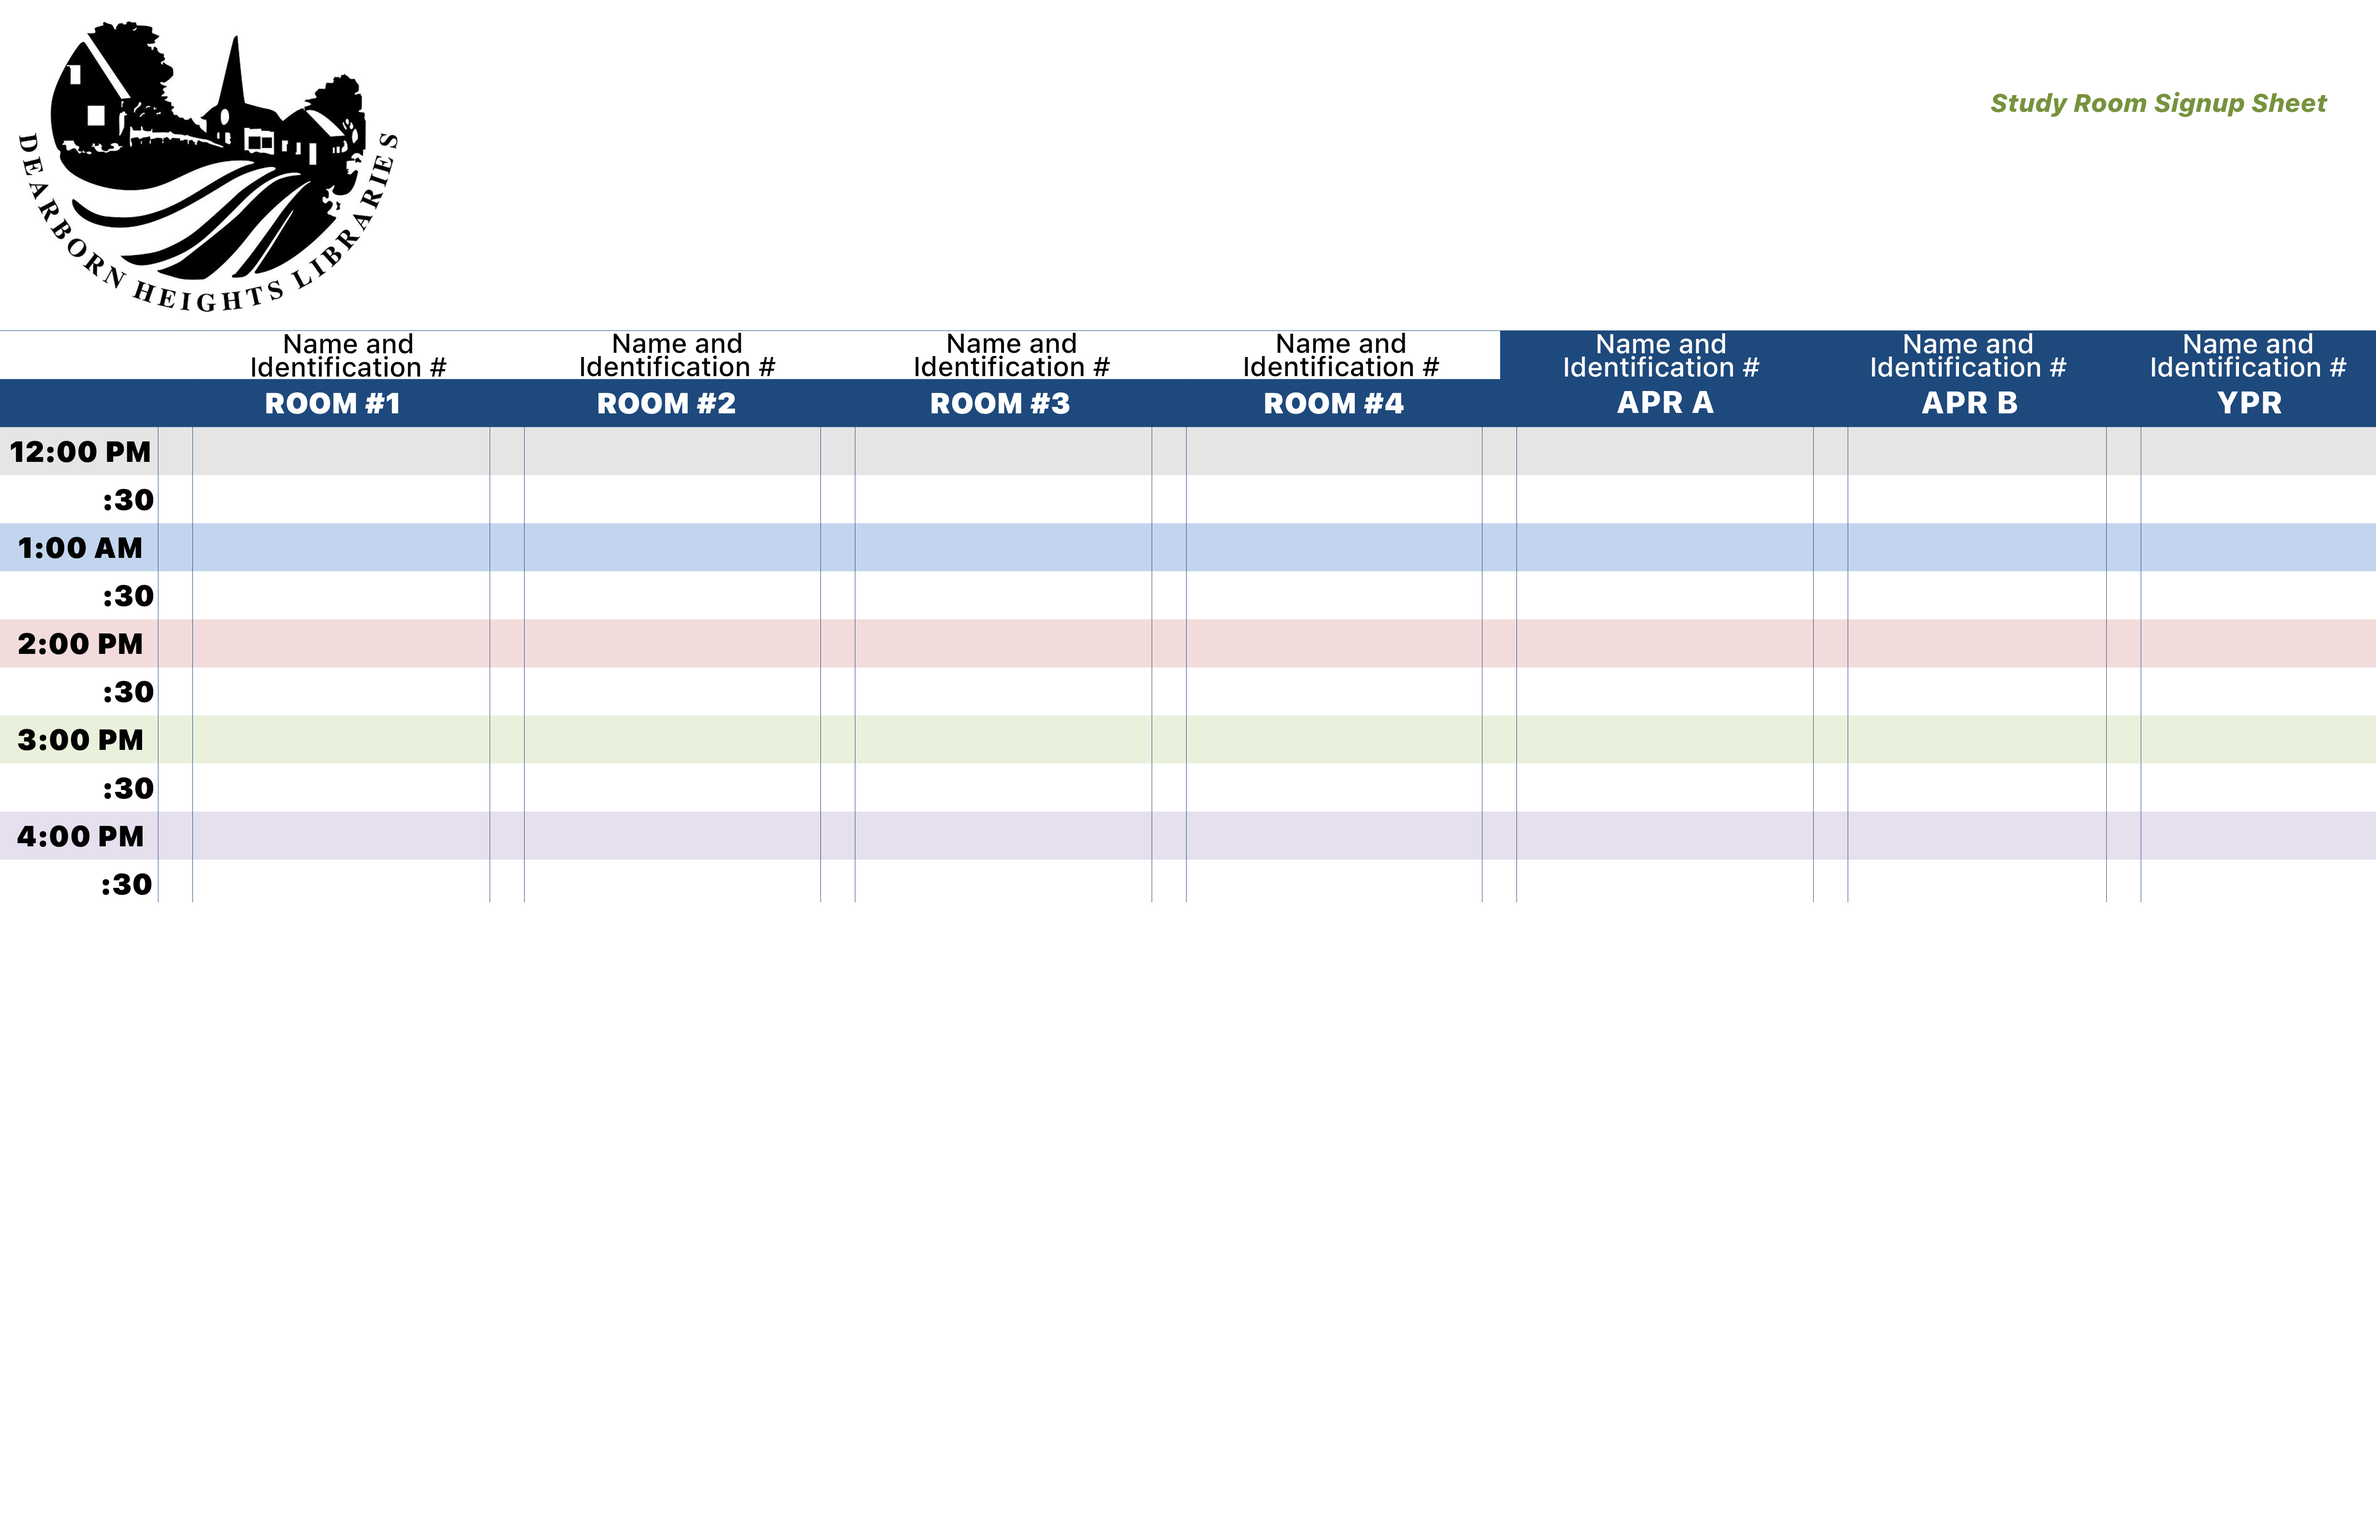
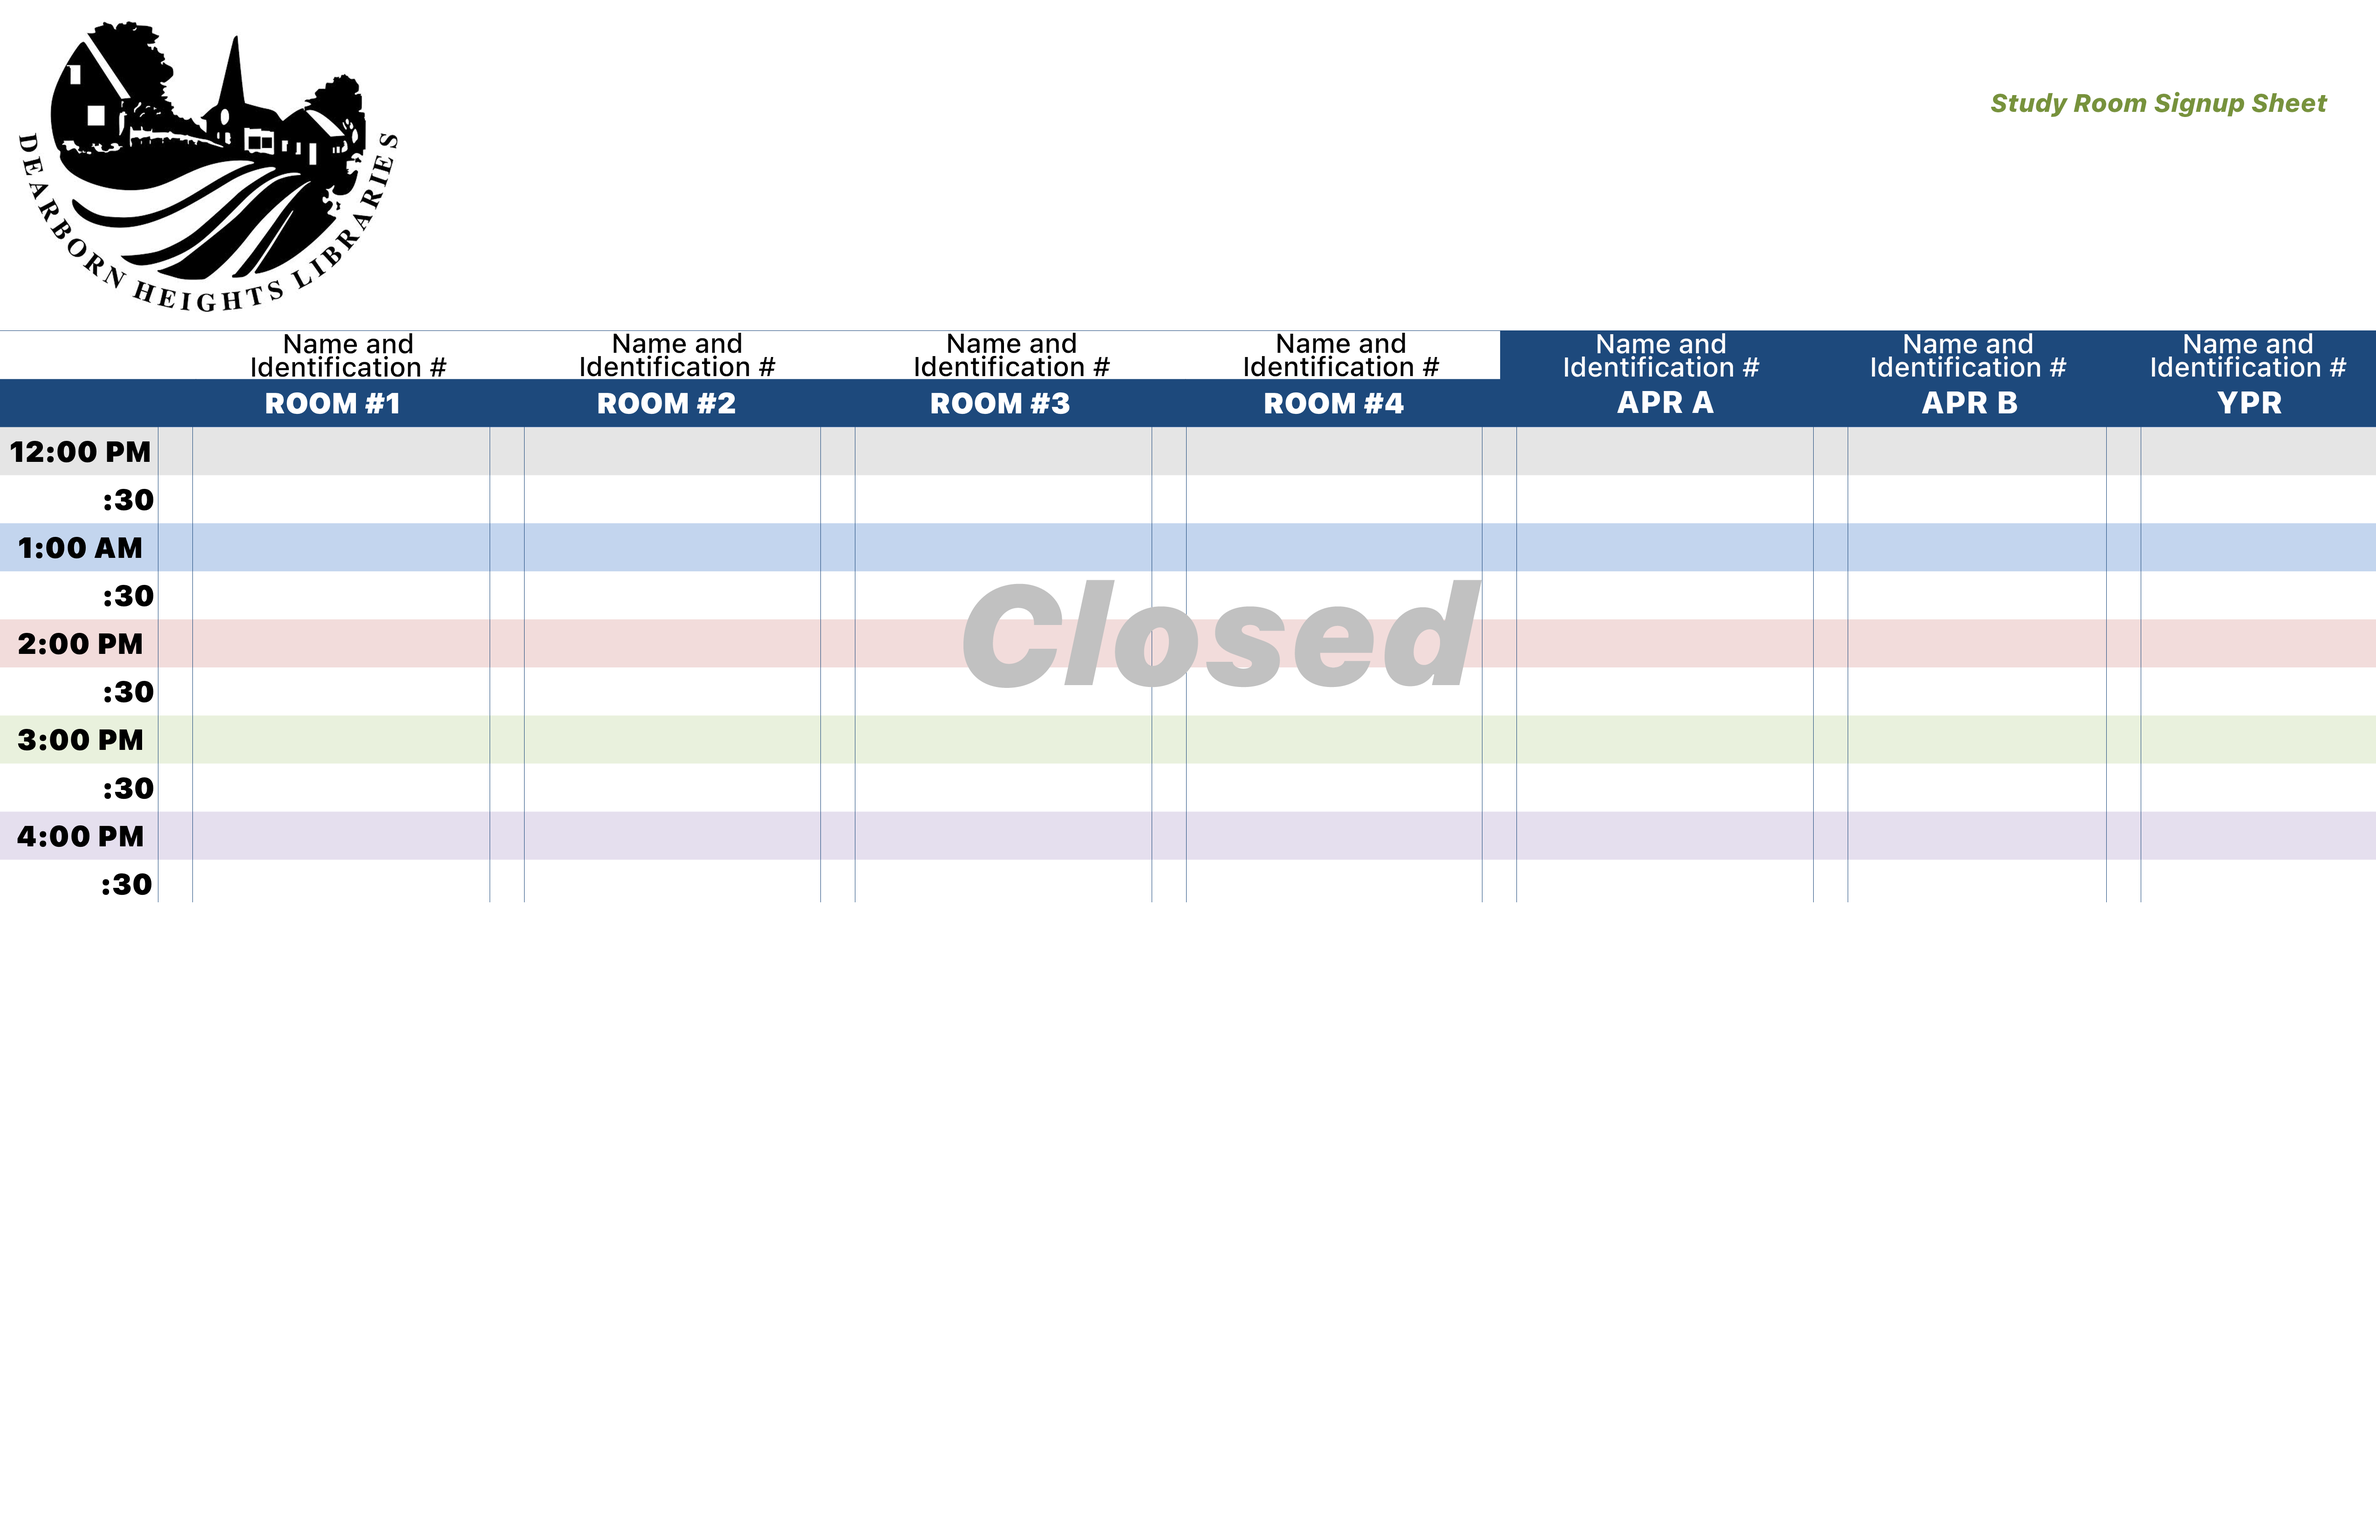
Pillow's paste can only merge two images at a time before saving, else it bonks.

Changed region(s): [[0.4053, 0.3745, 0.6235, 0.4682]]

diff --git a/main.py b/main.py
@@ -55,11 +55,10 @@ def main():
             df = ImageFont.truetype("SF-Pro-Text-Black.ttf", 160)
             yf = ImageFont.truetype("SF-Pro-Text-Black.ttf", 124)
 
-            img_weekday = Image.open("0_RoomSchedule_Template_Weekdays.png")
-            img_fri = Image.open("1_RoomSchedule_Template_Fridays.png")
-            img_sat = Image.open("2_RoomSchedule_Template_Saturdays.png")
-            img_sun = Image.open("3_RoomSchedule_Template_Sundays.png")
-            img_closed = Image.open("4_RoomSchedule_Template_Closed_Overlay.png")
+            img_weekday = Image.open("0_RoomSchedule_Template_Weekdays.png").convert("RGB")
+            img_fri = Image.open("1_RoomSchedule_Template_Fridays.png").convert("RGB")
+            img_sat = Image.open("2_RoomSchedule_Template_Saturdays.png").convert("RGB")
+            img_sun = Image.open("3_RoomSchedule_Template_Sundays.png").convert("RGB")
 
             no_holiday = Image.open('holidays/Blank.png').convert("RGBA")
             newyearsday = Image.open('holidays/NewYearsDay.png').convert("RGBA")
@@ -74,7 +73,6 @@ def main():
                 # Account for days of week
                 if single_date.weekday() == 6:
                     img_in_memory = img_sun.copy()
-                    img_in_memory.paste(img_closed.copy())
                 elif single_date.weekday() == 5:
                     img_in_memory = img_sat.copy()
                 elif single_date.weekday() == 4:
@@ -94,7 +92,7 @@ def main():
                 else:
                     holiday_insert = no_holiday.copy()
 
-                img_in_memory.paste(holiday_insert)
+                img_in_memory.paste(holiday_insert, (0,0), mask=holiday_insert)
                 sheet_name = single_date.strftime("sheets/X_RoomSchedule_%a-%B-%d-%Y.png")
                 img_in_memory.save(sheet_name, format='png')
 
